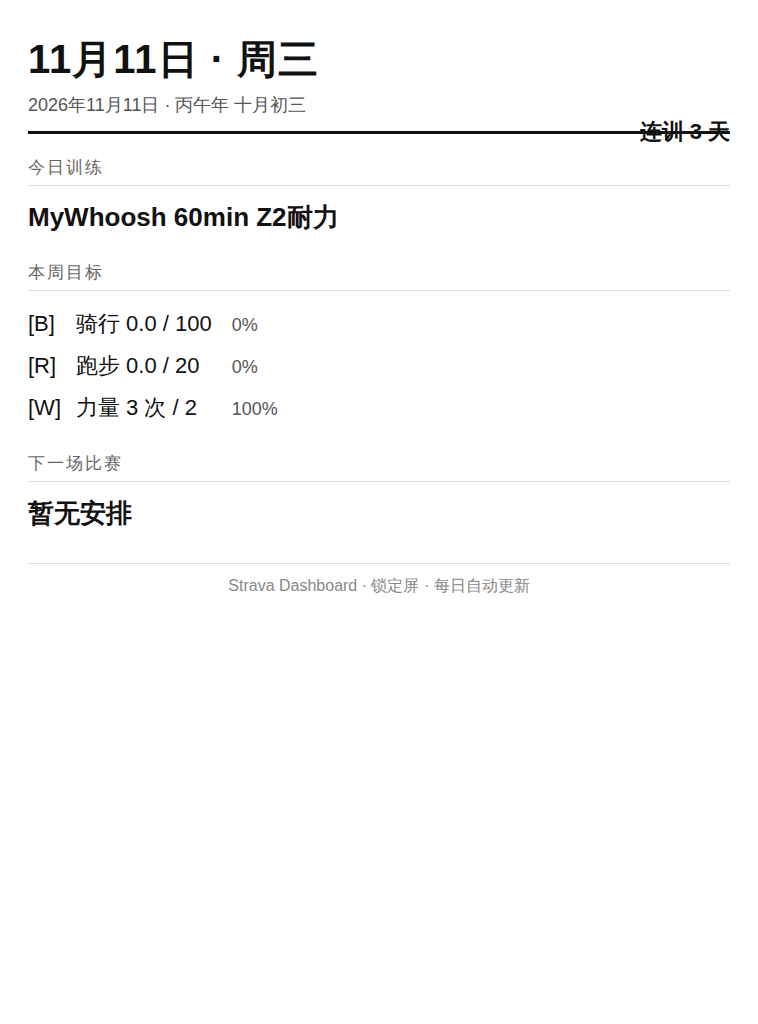
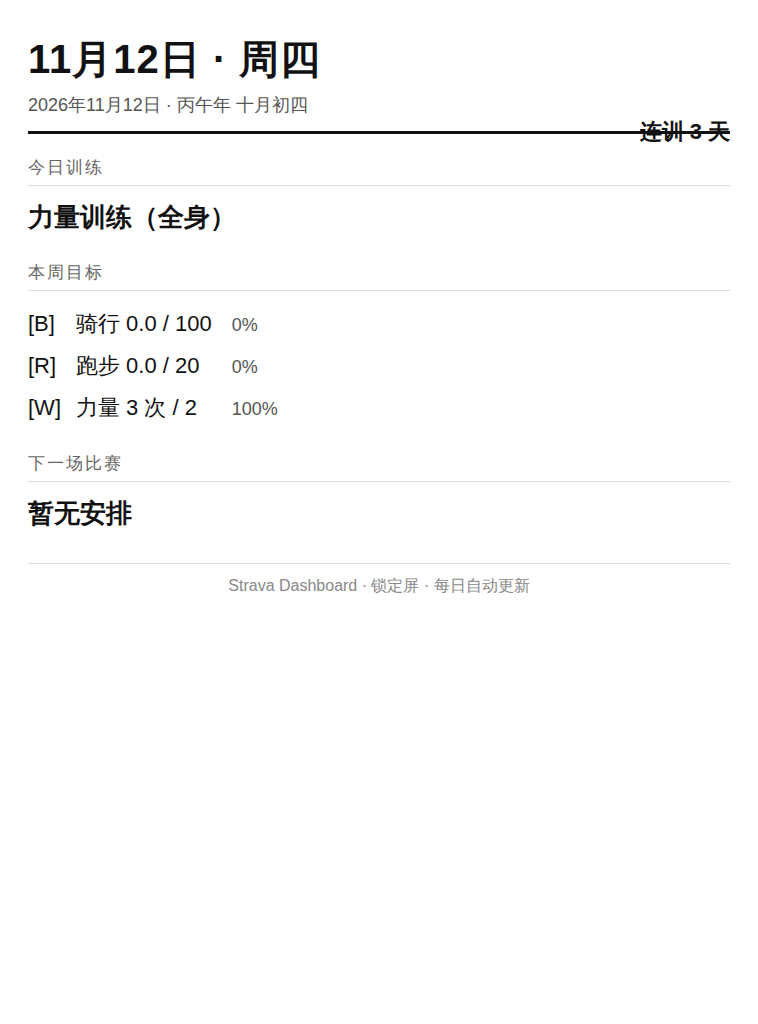
chore: daily data update 2026-11-12

Changed region(s): [[0.1821, 0.0312, 0.4248, 0.125], [0.0303, 0.1875, 0.4551, 0.25]]

diff --git a/output/screensaver.html b/output/screensaver.html
@@ -3,7 +3,7 @@
 <head>
 <meta charset="utf-8">
 <meta name="viewport" content="width=device-width, initial-scale=1">
-<title>训练屏保 · 11.11</title>
+<title>训练屏保 · 11.12</title>
 <style>
   body {
     margin: 0; padding: 32px 28px;
@@ -46,14 +46,14 @@
 </head>
 <body>
   <div class="header">
-    <div class="date">11月11日 · 周三</div>
-    <div class="sub">2026年11月11日 · 丙午年 十月初三</div>
+    <div class="date">11月12日 · 周四</div>
+    <div class="sub">2026年11月12日 · 丙午年 十月初四</div>
     <div class="streak">连训 3 天</div>
   </div>
 
   <div class="block">
     <div class="block-title">今日训练</div>
-    <div class="today">MyWhoosh 60min Z2耐力</div>
+    <div class="today">力量训练（全身）</div>
   </div>
 
   <div class="block">
